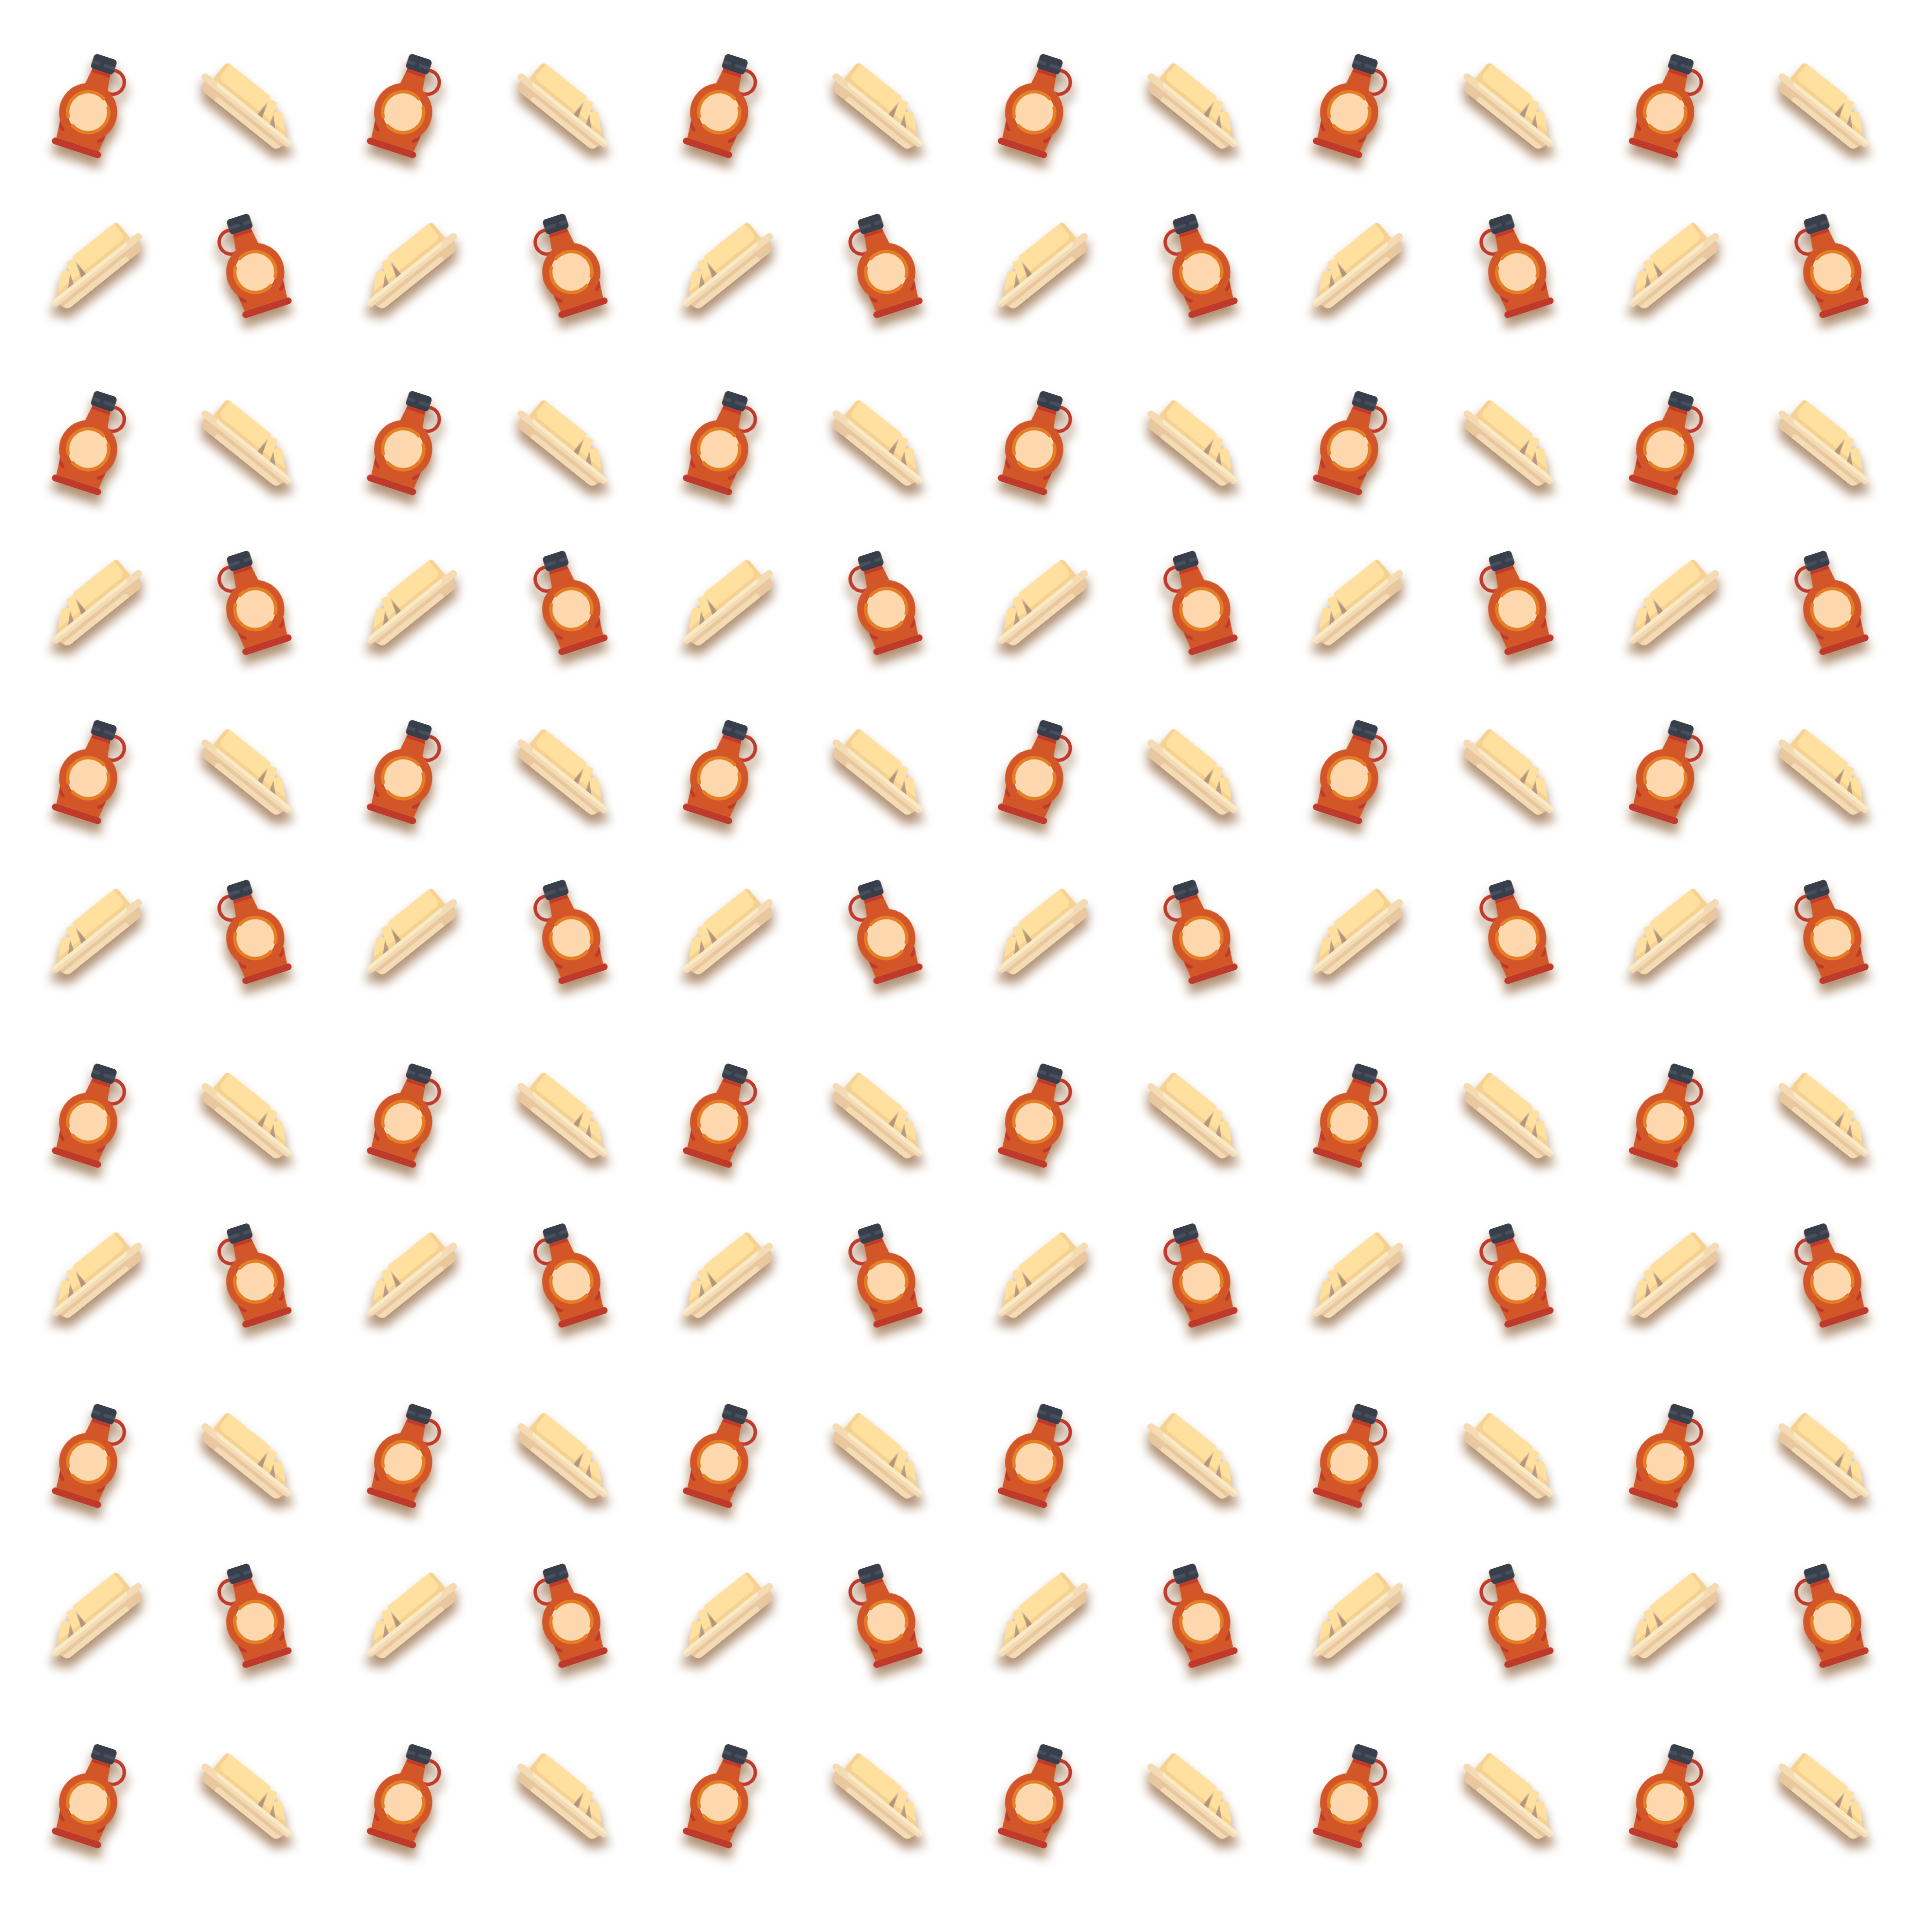
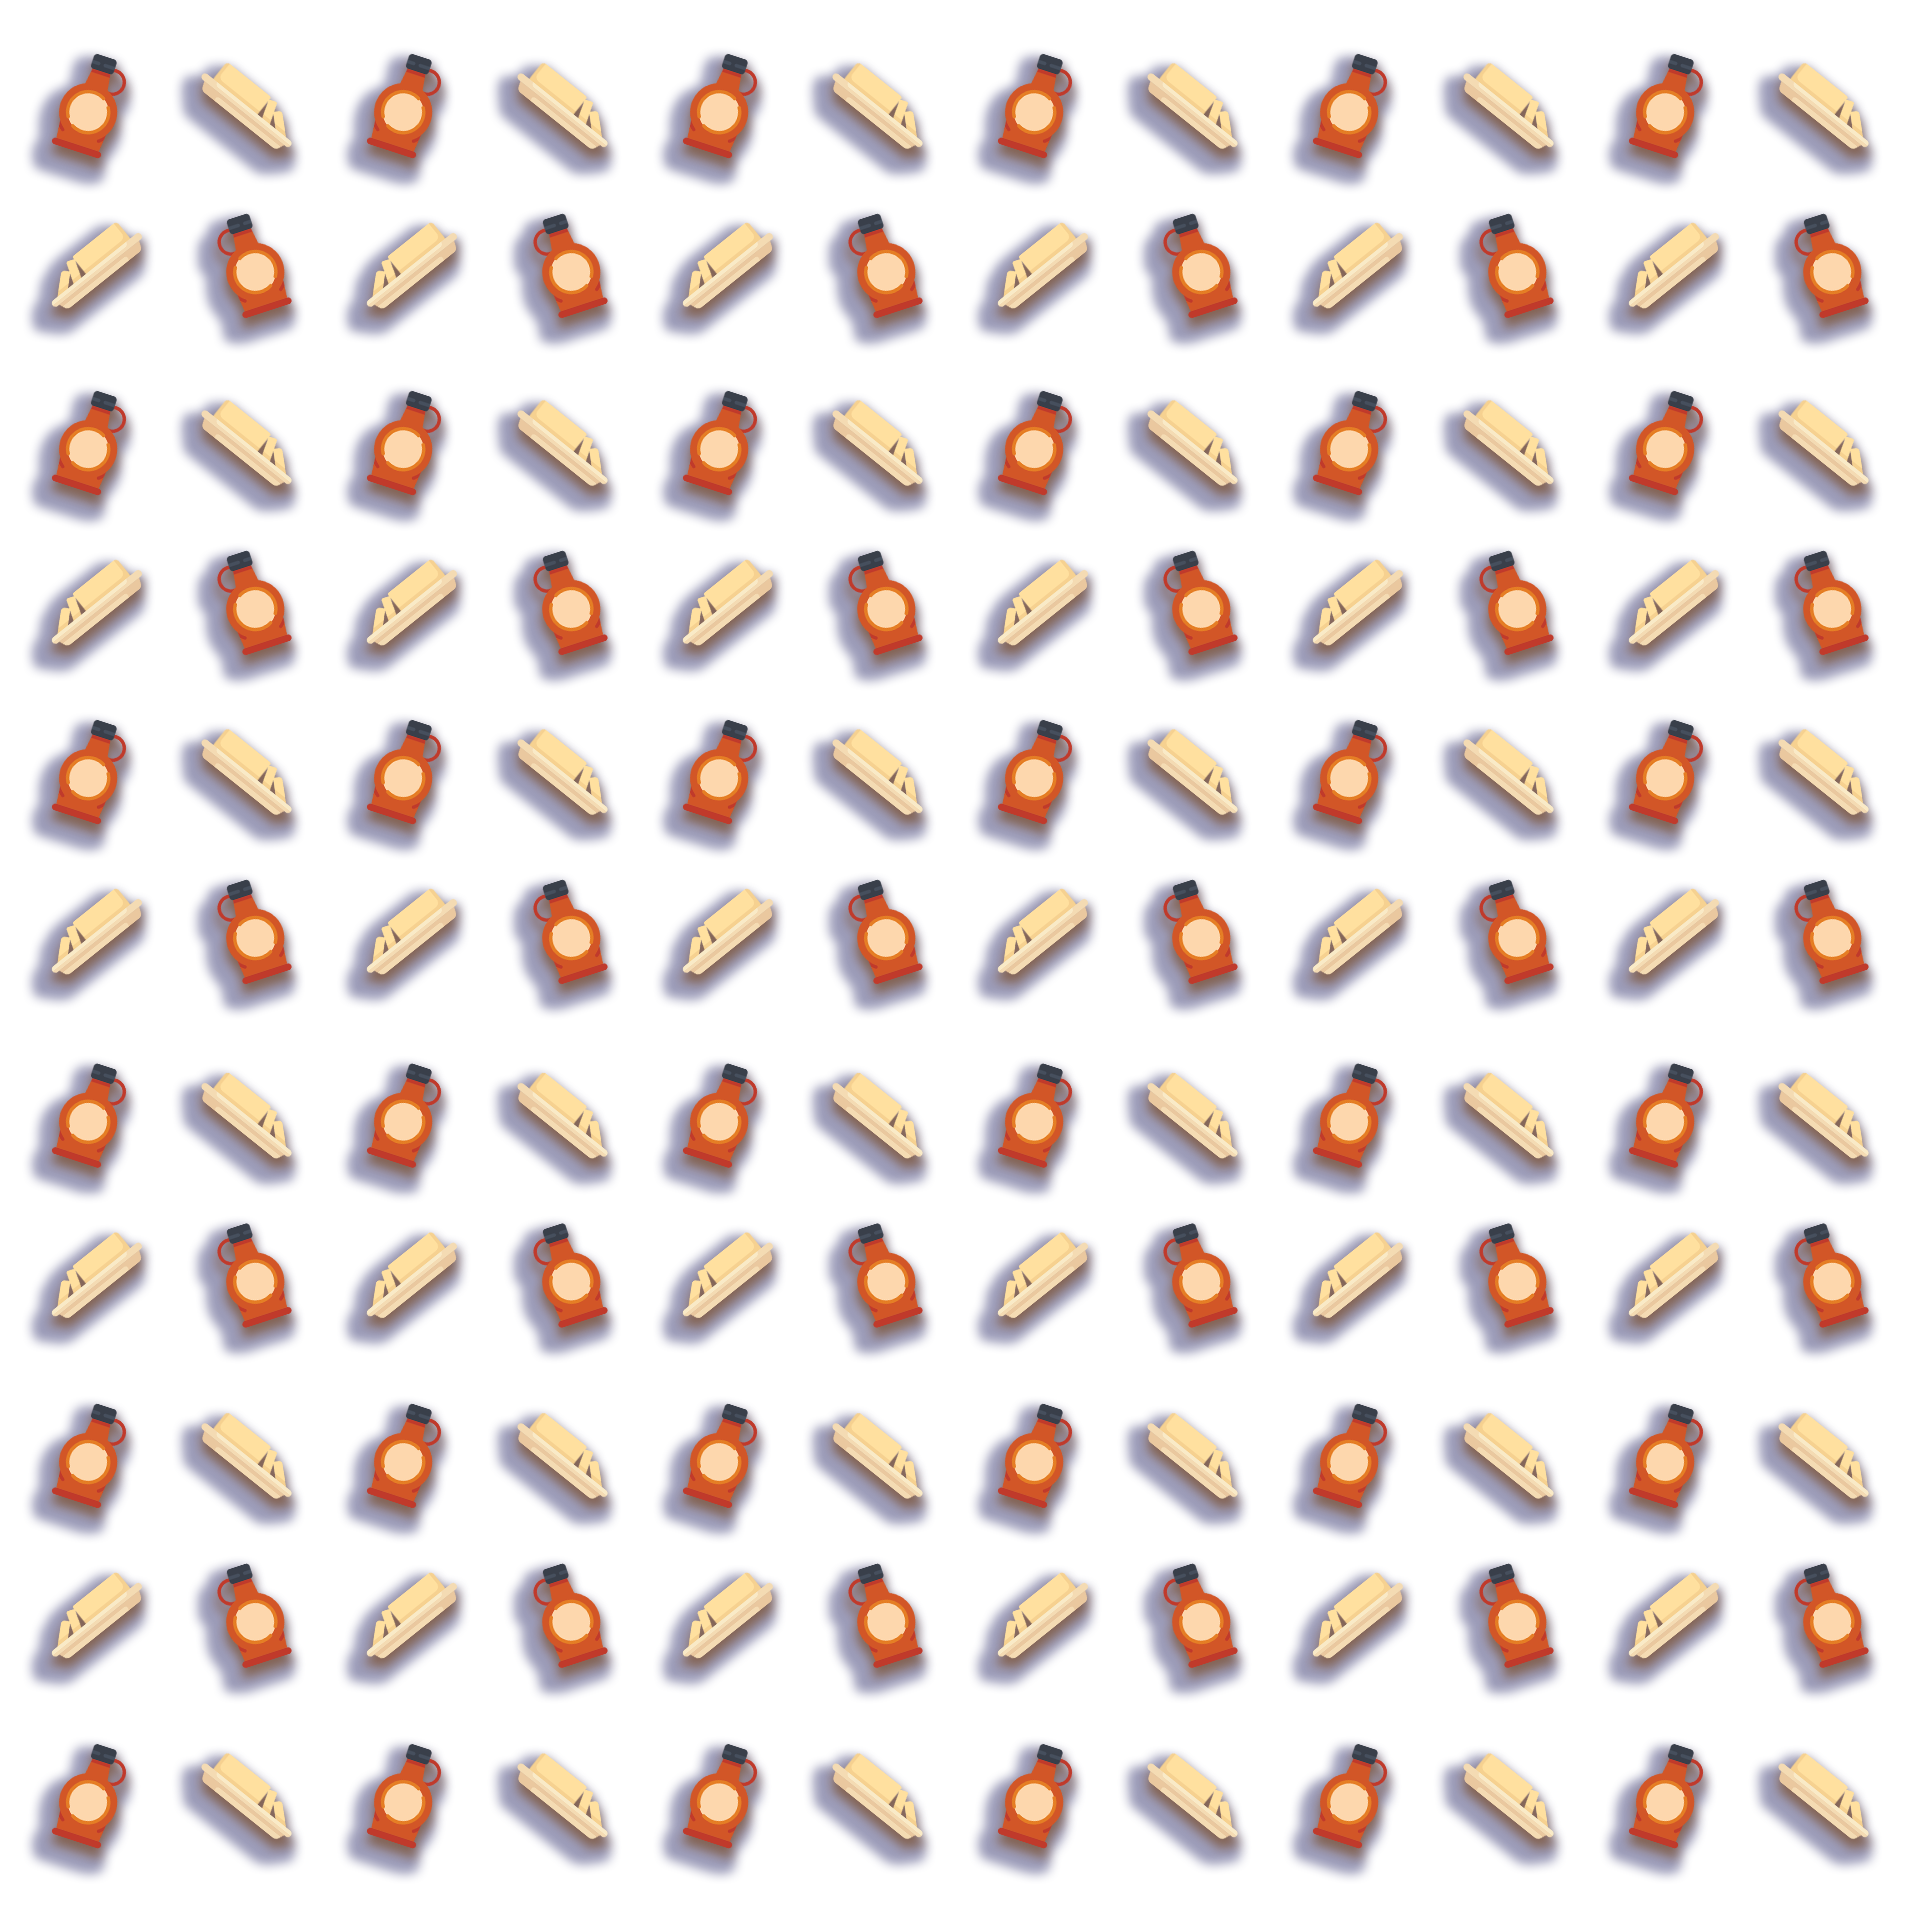
update background image

Changed region(s): [[0.0, 0.0312, 1.0, 1.0]]

diff --git a/css/style.css b/css/style.css
@@ -1,7 +1,6 @@
 body {
   text-align: center;
   font-family: 'Sulphur Point', sans-serif;
-  margin: 0;
   height: 100vh;
   display: flex;
   flex-direction: column;
@@ -11,11 +10,9 @@ body {
   font-weight: 100;
   min-width: 100vw;
   background-image: url('/assets/background.png');
+  background-color: #1D3C91;
+  background-size: 1000px;
 }
-/* .dark-mode {
-  background-color: black;
-  color: white;
-} */
 
 div.innerText {
 justify-content: center;
@@ -23,7 +20,7 @@ align-items: center;
 padding: 20px;
 margin: 20px;
 font-size: medium;
-border: 2px solid rgb(139, 101, 7);
+border: 2px solid #597CDE;
 background-color:  hsl(40, 92%, 72%);
 }
 section.board {
@@ -36,20 +33,16 @@ section.board {
   padding: 15px;
 }   
 div {
-  /* border: 2px solid rgb(139, 101, 7); */
   font-size: 5vmin;
   border-radius: 50px;
   margin: 6px;
   align-items: center;
   text-align: center;
   vertical-align: middle;
-  /* background-color:  hsl(40, 92%, 72%); */
-  /* box-shadow: 3px 3px 3px #784306; */
-  animation: rotation 8s infinite linear;
 }
 button {
   background-color:  hsl(40, 92%, 72%);
-  border: 2px solid #784306;
+  border: 2px solid #597CDE;
   color: #000000;
   padding: 15px 32px;
   text-align: center;
@@ -64,9 +57,9 @@ button:hover {
   color: rgb(255, 255, 255);
 }
 .cir {
-  border: 2px solid rgb(139, 101, 7);
-  background-color:  hsl(40, 92%, 72%);
-  box-shadow: 3px 3px 3px #784306;
+  border: 2px solid hsl(40, 92%, 72%);;
+  background-color:  #597CDE;
+  box-shadow: 3px 3px 3px #020746;
   display: flex;
   justify-content: center;
   align-items: center;
@@ -74,14 +67,6 @@ button:hover {
 #icon {
   object-fit: cover;
   height: 6vmin;
-  @keyframes rotation {
-    from {
-      transform: rotate(0deg);
-    }
-    to {
-      transform: rotate(359deg);
-    }
-  }
 }
 .innerText > h1{
   font-size: 2.8em;
